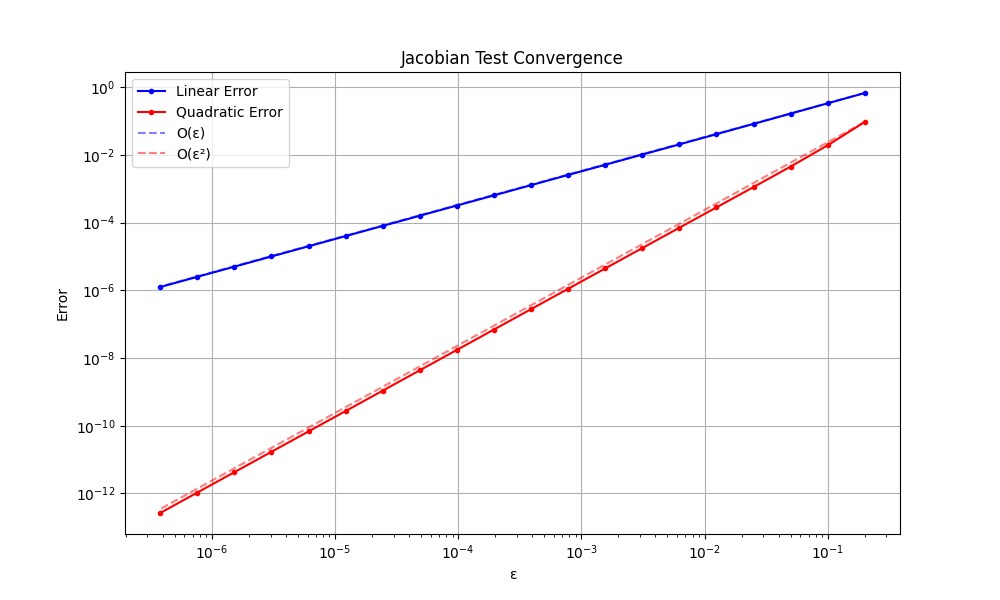
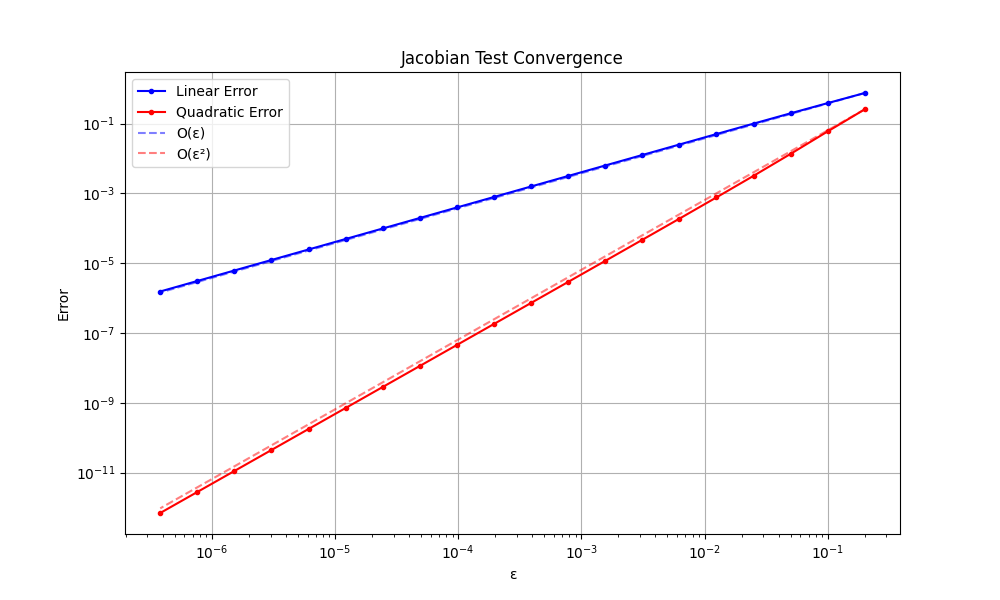
RESNT + RESNET jacobian_test

diff --git a/neural_net_from_scratch/src/models/neural_network_raz.py b/neural_net_from_scratch/src/models/neural_network_raz.py
@@ -1,6 +1,8 @@
 import numpy as np
-from typing import List, Tuple, Callable, Union
+from typing import List, Tuple, Callable, Union, Dict
 import matplotlib.pyplot as plt
+
+
 class Activation:
     @staticmethod
     def relu(x: np.ndarray) -> np.ndarray:
@@ -86,18 +88,54 @@ class Layer:
         dL_dx = np.dot(self.W.T, dL_dz)
         
         return dL_dx
+    
+    def update_parameters(self, learning_rate: float) -> None:
+        self.W -= learning_rate * self.dW
+        self.b -= learning_rate * self.db
+
+
+class ResidualBlock:
+    def __init__(self, input_dim: int, output_dim: int, activation: str):
+        self.layers = [
+            Layer(input_dim, output_dim, activation),
+            Layer(output_dim, output_dim, activation)
+        ]
+    
+    def forward(self, x: np.ndarray) -> np.ndarray:
+        a = self.layers[0].forward(x)
+        a = self.layers[1].forward(a)
+        return a + x
+    
+    def backward(self, dL_da: np.ndarray) -> np.ndarray:
+        dL_dx_second = self.layers[1].backward(dL_da)
+        dL_dx_first = self.layers[0].backward(dL_dx_second)
+        dL_dx =  dL_da + dL_dx_first
+        return dL_dx
+
+    def update_parameters(self, learning_rate: float) -> None:
+        for layer in self.layers:
+            layer.update_parameters(learning_rate)
+
 
 class DynamicNeuralNetwork:
-    def __init__(self, layer_dims: List[int], activations: List[str]):
+    def __init__(self, layer_configs: List[Dict]):
         self.layers = []
-        for i in range(len(layer_dims) - 1):
-            layer = Layer(
-                input_dim=layer_dims[i],
-                output_dim=layer_dims[i + 1],
-                activation=activations[i]
-            )
-            self.layers.append(layer)
-
+        for config in layer_configs:
+            if config["type"] == "layer":
+                layer = Layer(
+                    input_dim=config["input_dim"],
+                    output_dim=config["output_dim"],
+                    activation=config["activation"]
+                )
+                self.layers.append(layer)
+            elif config["type"] == "residual":
+                residual_block = ResidualBlock(
+                    input_dim=config["input_dim"],
+                    output_dim=config["output_dim"],
+                    activation=config["activation"]
+                )
+                self.layers.append(residual_block)
+                
     def forward(self, x: np.ndarray) -> np.ndarray:
         current_activation = x
         for layer in self.layers:
@@ -111,6 +149,34 @@ class DynamicNeuralNetwork:
 
     def update_parameters(self, learning_rate: float) -> None:
         for layer in self.layers:
-            layer.W -= learning_rate * layer.dW
-            layer.b -= learning_rate * layer.db
+            layer.update_parameters(learning_rate)
 
+
+
+if __name__ == "__main__":
+    final_output_dim = 8
+    layer_configs = [
+        {"type": "layer", "input_dim": 4, "output_dim": 8, "activation": "relu"},
+        {"type": "residual", "input_dim": 8, "output_dim": final_output_dim, "activation": "relu"},
+    ]
+    
+    # Create the network
+    network = DynamicNeuralNetwork(layer_configs)
+
+    # Input data
+    x = np.random.randn(4, 10)  # 4 features, 10 samples
+
+    # Forward pass
+    output = network.forward(x)
+
+    # Compute gradient with matching dimensions
+    dL_dy = np.random.randn(final_output_dim, 10)  # Changed from (2,10) to (8,10) to match output
+
+    # Backward pass
+    network.backward(dL_dy)
+
+    # Update parameters
+    network.update_parameters(learning_rate=0.01)
+
+    # print forward pass output
+    print(output)

diff --git a/neural_net_from_scratch/tests/test_jacobian_resnet_2_2.py b/neural_net_from_scratch/tests/test_jacobian_resnet_2_2.py
@@ -2,14 +2,16 @@ import numpy as np
 import matplotlib.pyplot as plt
 from neural_net_from_scratch.src.models.neural_network_raz import DynamicNeuralNetwork
 
+DIM = 10
 def test_jacobian():
     layer_configs = [
-        {"type": "layer", "input_dim": 784, "output_dim": 10, "activation": "tanh"}
+        {"type": "residual", "input_dim": DIM, "output_dim": DIM, "activation": "tanh"}
     ]
     network = DynamicNeuralNetwork(layer_configs)
+    residual_block = network.layers[0]
 
-    x = np.random.randn(784, 1) 
-    d = np.random.randn(784, 1)
+    x = np.random.randn(DIM, 1) 
+    d = np.random.randn(DIM, 1)
     epsilon = 0.2
 
     linear_errors = []
@@ -24,8 +26,18 @@ def test_jacobian():
         x_plus_eps_d = x + eps * d
         f_x_plus_eps_d = network.forward(x_plus_eps_d)
         
-        activation_deriv = network.layers[0].activation_derivative(network.layers[0].z)
-        JacMV = activation_deriv * (network.layers[0].W @ (eps * d))
+        layer1, layer2 = residual_block.layers
+        
+        z1 = layer1.z
+        a1 = layer1.a
+        da1_dz1 = layer1.activation_derivative(z1)
+        JacMV1 = da1_dz1 * (layer1.W @ (eps * d))
+        
+        z2 = layer2.z
+        da2_dz2 = layer2.activation_derivative(z2)
+        JacMV2 = da2_dz2 * (layer2.W @ JacMV1)
+        
+        JacMV = JacMV2 + eps * d 
 
         val_linear = np.linalg.norm(f_x_plus_eps_d - f_x)
         val_quad = np.linalg.norm(f_x_plus_eps_d - f_x - JacMV)
@@ -46,10 +58,10 @@ def test_jacobian():
     plt.grid(True)
     plt.xlabel('ε')
     plt.ylabel('Error')
-    plt.title('Jacobian Test Convergence')
+    plt.title('Residual Block Jacobian Tes')
     plt.legend()
     
-    plt.savefig('neural_net_from_scratch/artifacts/jacobian_test.png')
+    plt.savefig('neural_net_from_scratch/artifacts/jacobian_test_residual_block.png')
     plt.close()
 
     return linear_errors, quadratic_errors
@@ -60,5 +72,11 @@ def test_convergence():
     linear_ratios = np.array(linear_errors[:-1]) / np.array(linear_errors[1:])
     quad_ratios = np.array(quadratic_errors[:-1]) / np.array(quadratic_errors[1:])
     
-    assert np.allclose(linear_ratios, 2, rtol=0.5), "Linear is not decrease by factor of 2"
-    assert np.allclose(quad_ratios, 4, rtol=0.5), "Quadratic is not decrease by factor of 4"
+    assert np.allclose(linear_ratios, 2, rtol=0.5)
+    assert np.allclose(quad_ratios, 4, rtol=0.5)
+
+
+if __name__ == "__main__":
+    # run the test
+
+    test_convergence()
